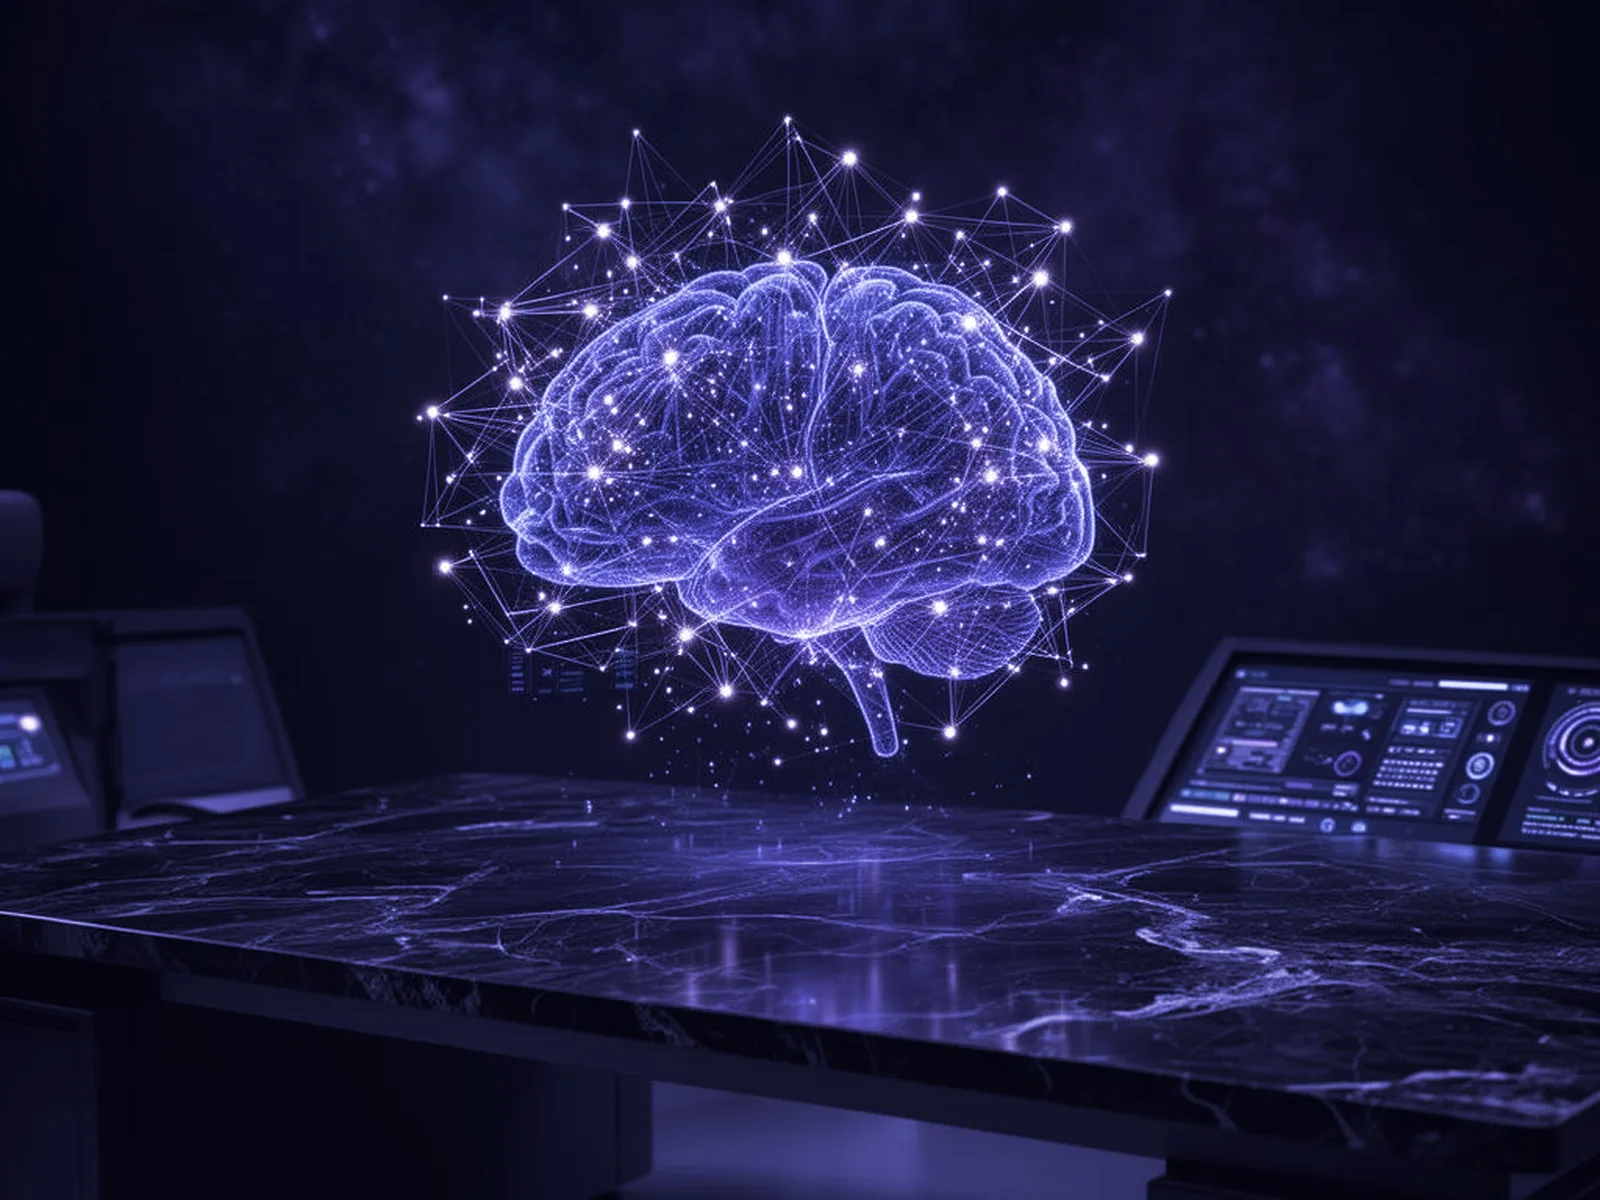
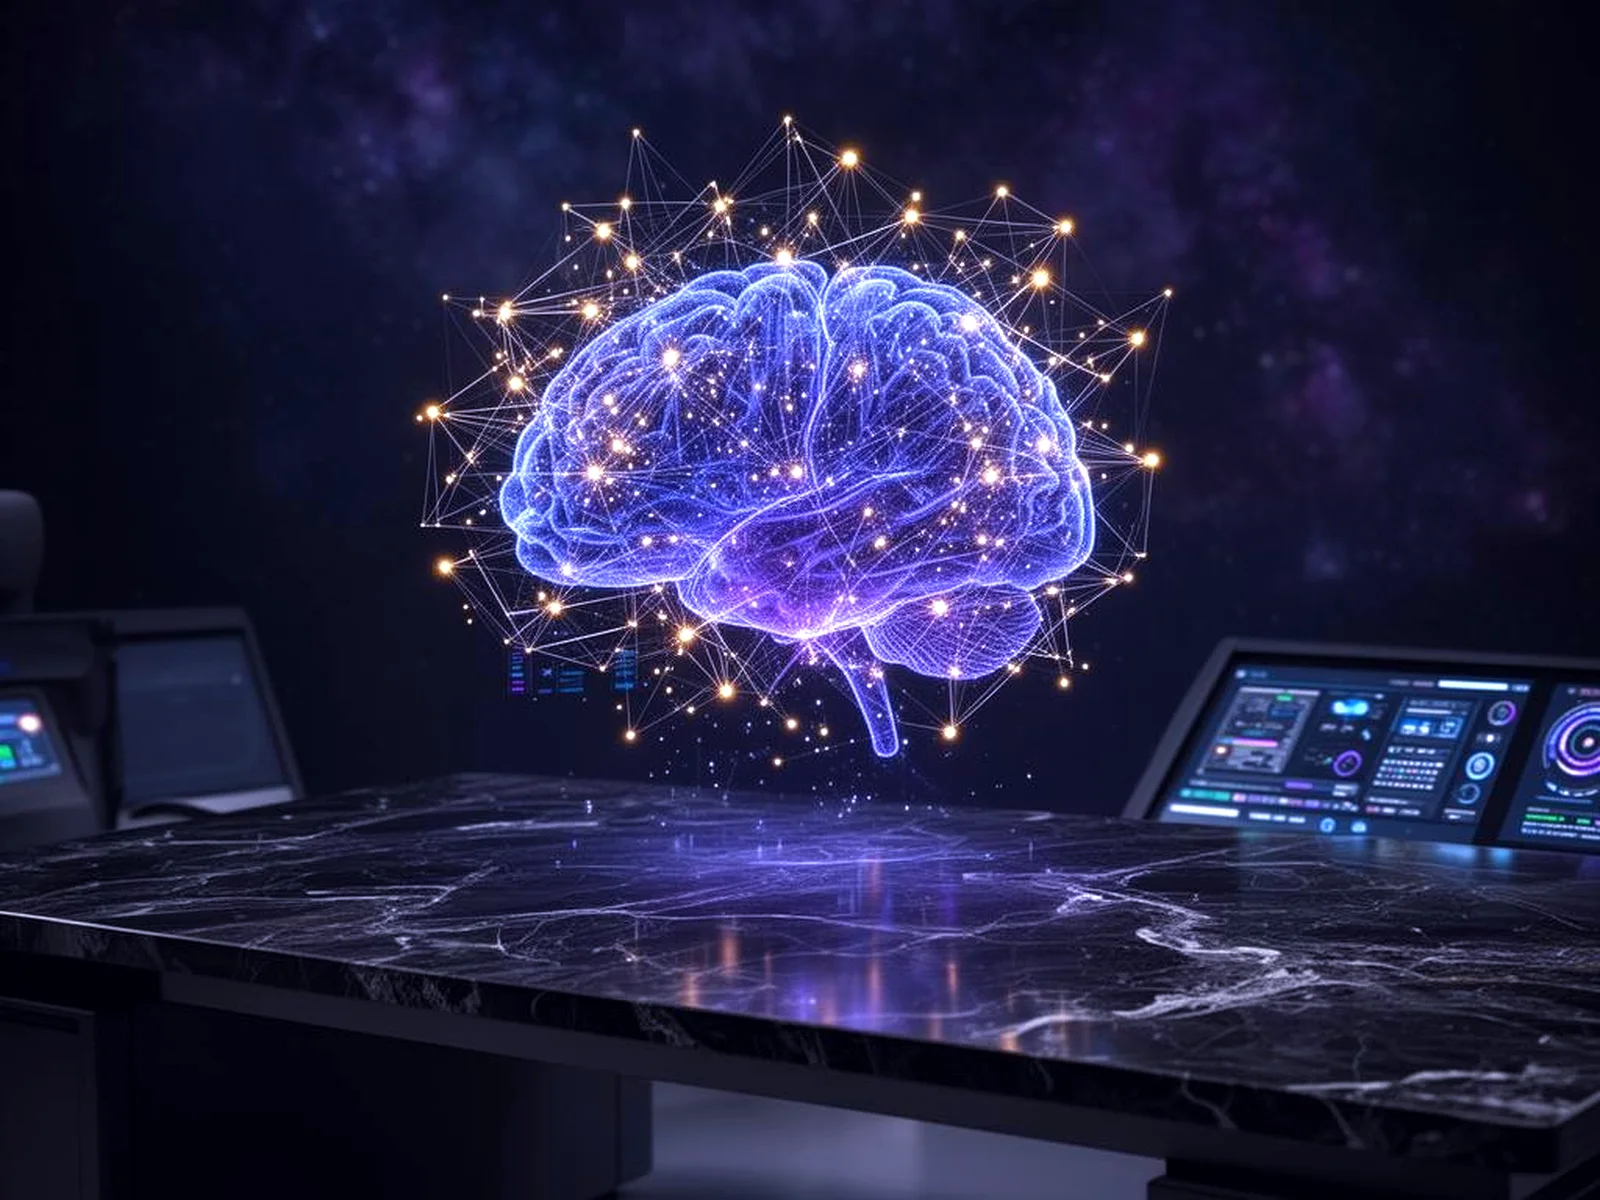
Images plus vivantes : couleurs naturelles conservées, légère teinte indigo, voile allégé
Claude-Session: https://claude.ai/code/session_01N67e4nLVjhSKWaciMPBwN8

diff --git a/app/globals.css b/app/globals.css
@@ -2526,7 +2526,7 @@ button {
   z-index: 1;
   pointer-events: none;
   border-radius: inherit;
-  background: linear-gradient(160deg, var(--indigo-a06), transparent 45%, var(--indigo-a18));
+  background: linear-gradient(180deg, transparent 60%, rgba(10, 11, 30, 0.12));
   box-shadow: inset 0 0 0 1px var(--white-a35);
 }
 .media > figcaption,
@@ -2923,15 +2923,16 @@ a:hover .media img,
 .hero-photo img {
   object-fit: cover;
   object-position: 70% 40%;
-  opacity: 0.5;
+  opacity: 0.8;
+  filter: saturate(1.15);
 }
 .hero-photo::after {
   content: "";
   position: absolute;
   inset: 0;
   background:
-    linear-gradient(90deg, var(--black) 0%, var(--black-a55) 55%, transparent 100%),
-    linear-gradient(0deg, var(--navy) 0%, transparent 35%);
+    linear-gradient(90deg, rgba(10, 11, 30, 0.88) 0%, rgba(10, 11, 30, 0.45) 45%, transparent 75%),
+    linear-gradient(0deg, rgba(21, 29, 82, 0.7) 0%, transparent 30%);
 }
 .hero.dark .eyebrow-pill {
   background: var(--indigo-a28);
